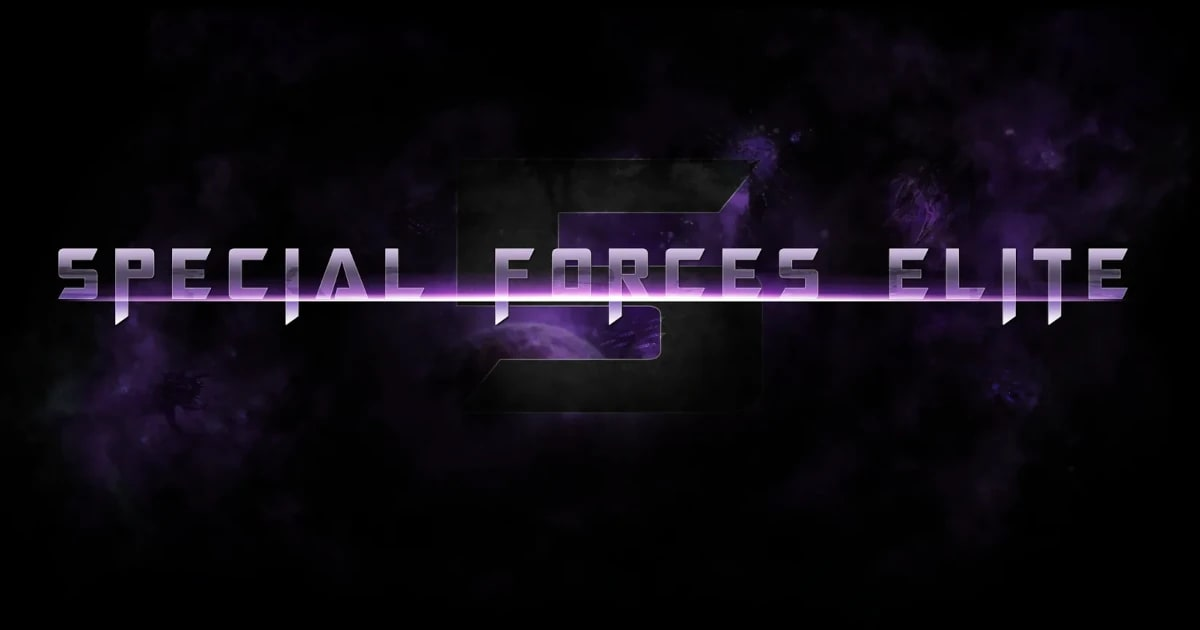
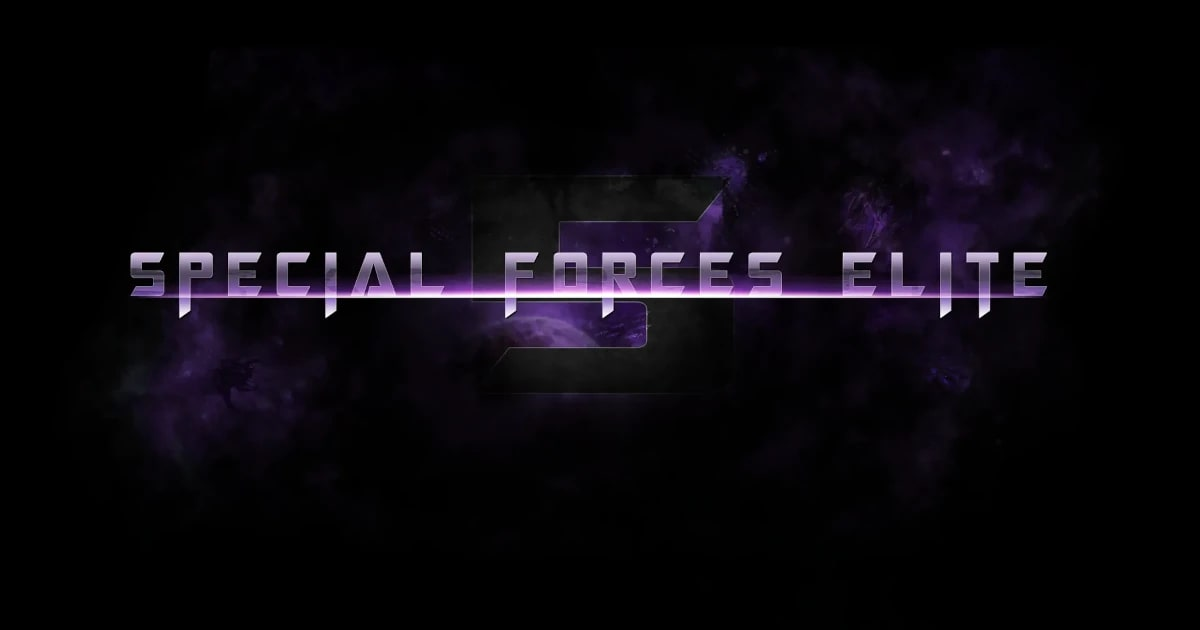
Link preview: recropped og-image (v2), source renamed og-image.webp

diff --git a/site/404.html b/site/404.html
@@ -11,7 +11,7 @@
     />
     <!-- Link previews (Discord / Slack / iMessage / Facebook / X / LinkedIn). One site-level card for every
          route (previewers only fetch this static shell). og:image = the user's 1200×630 crop of the loading
-         screen (public/loading-screen2.webp), served as JPEG (public/og-image.jpg) because some previewers
+         screen — SOURCE public/og-image.webp (user 2026-08-17 recrop), SERVED as public/og-image.jpg because some previewers
          (LinkedIn, older iMessage) skip WebP. Bump the ?v= when the image changes — Discord caches by URL. -->
     <link rel="canonical" href="https://sfe5.wiki/" />
     <meta property="og:type" content="website" />
@@ -22,8 +22,8 @@
       content="The complete game guide for SFE5, the StarCraft II co-op survival map — wiki, interactive map, unit stats, buffs, achievements, and calculators."
     />
     <meta property="og:url" content="https://sfe5.wiki/" />
-    <meta property="og:image" content="https://sfe5.wiki/og-image.jpg?v=1" />
-    <meta property="og:image:secure_url" content="https://sfe5.wiki/og-image.jpg?v=1" />
+    <meta property="og:image" content="https://sfe5.wiki/og-image.jpg?v=2" />
+    <meta property="og:image:secure_url" content="https://sfe5.wiki/og-image.jpg?v=2" />
     <meta property="og:image:type" content="image/jpeg" />
     <meta property="og:image:width" content="1200" />
     <meta property="og:image:height" content="630" />
@@ -34,7 +34,7 @@
       name="twitter:description"
       content="The complete game guide for SFE5, the StarCraft II co-op survival map — wiki, interactive map, unit stats, buffs, achievements, and calculators."
     />
-    <meta name="twitter:image" content="https://sfe5.wiki/og-image.jpg?v=1" />
+    <meta name="twitter:image" content="https://sfe5.wiki/og-image.jpg?v=2" />
     <meta name="theme-color" content="#0b0b0d" />
     <script type="module" crossorigin src="/assets/index-Br1vzxFz.js"></script>
     <link rel="stylesheet" crossorigin href="/assets/index-CtExzICB.css">

diff --git a/site/index.html b/site/index.html
@@ -11,7 +11,7 @@
     />
     <!-- Link previews (Discord / Slack / iMessage / Facebook / X / LinkedIn). One site-level card for every
          route (previewers only fetch this static shell). og:image = the user's 1200×630 crop of the loading
-         screen (public/loading-screen2.webp), served as JPEG (public/og-image.jpg) because some previewers
+         screen — SOURCE public/og-image.webp (user 2026-08-17 recrop), SERVED as public/og-image.jpg because some previewers
          (LinkedIn, older iMessage) skip WebP. Bump the ?v= when the image changes — Discord caches by URL. -->
     <link rel="canonical" href="https://sfe5.wiki/" />
     <meta property="og:type" content="website" />
@@ -22,8 +22,8 @@
       content="The complete game guide for SFE5, the StarCraft II co-op survival map — wiki, interactive map, unit stats, buffs, achievements, and calculators."
     />
     <meta property="og:url" content="https://sfe5.wiki/" />
-    <meta property="og:image" content="https://sfe5.wiki/og-image.jpg?v=1" />
-    <meta property="og:image:secure_url" content="https://sfe5.wiki/og-image.jpg?v=1" />
+    <meta property="og:image" content="https://sfe5.wiki/og-image.jpg?v=2" />
+    <meta property="og:image:secure_url" content="https://sfe5.wiki/og-image.jpg?v=2" />
     <meta property="og:image:type" content="image/jpeg" />
     <meta property="og:image:width" content="1200" />
     <meta property="og:image:height" content="630" />
@@ -34,7 +34,7 @@
       name="twitter:description"
       content="The complete game guide for SFE5, the StarCraft II co-op survival map — wiki, interactive map, unit stats, buffs, achievements, and calculators."
     />
-    <meta name="twitter:image" content="https://sfe5.wiki/og-image.jpg?v=1" />
+    <meta name="twitter:image" content="https://sfe5.wiki/og-image.jpg?v=2" />
     <meta name="theme-color" content="#0b0b0d" />
     <script type="module" crossorigin src="/assets/index-Br1vzxFz.js"></script>
     <link rel="stylesheet" crossorigin href="/assets/index-CtExzICB.css">
